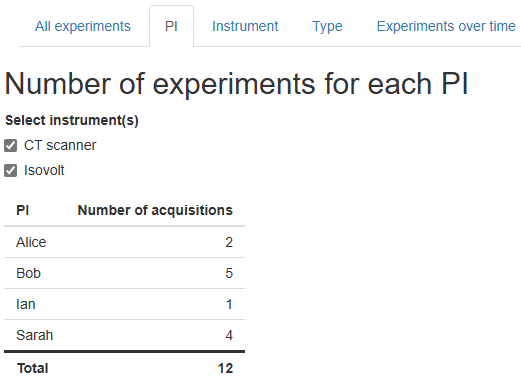
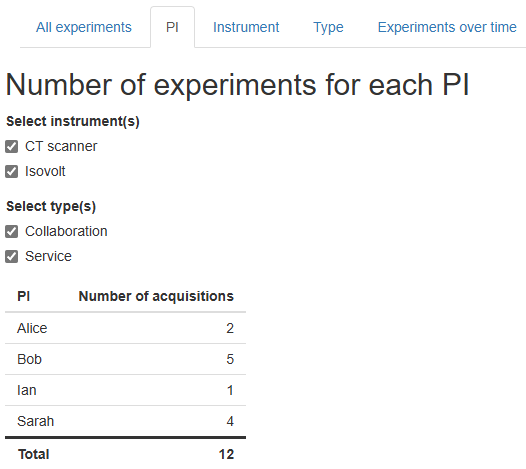
Added: select type in tab PI

diff --git a/README.md b/README.md
@@ -129,7 +129,7 @@ The table can be downloaded to XLSX or ODS files by clicking on the buttons at t
 
 
 ## Tab "PI" 
-In this tab, the number of acquisitions is summed by PI. Filter by instrument as needed. 
+In this tab, the number of acquisitions is summed by PI. Filter by instrument and type as needed. 
 
 ><p align="center" width="100%">
 >    <img src="screenshots/app_tab-PI.png"><br>
